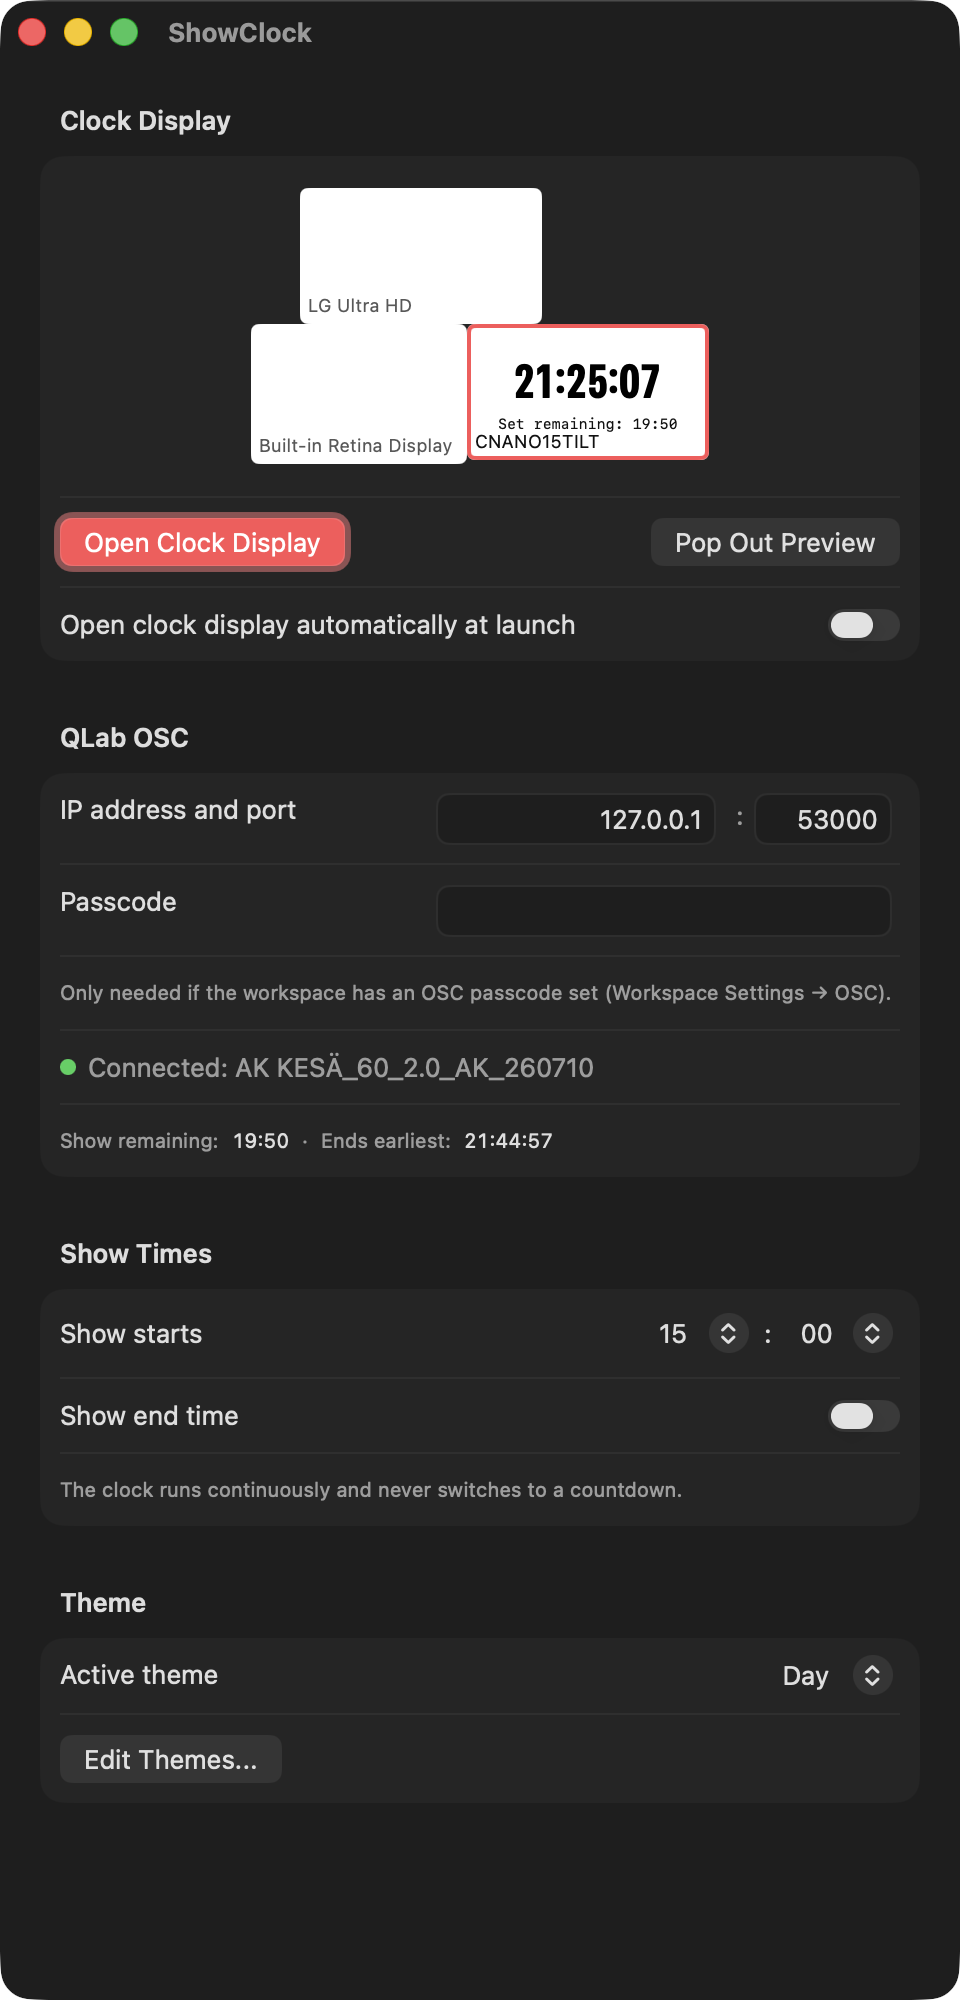
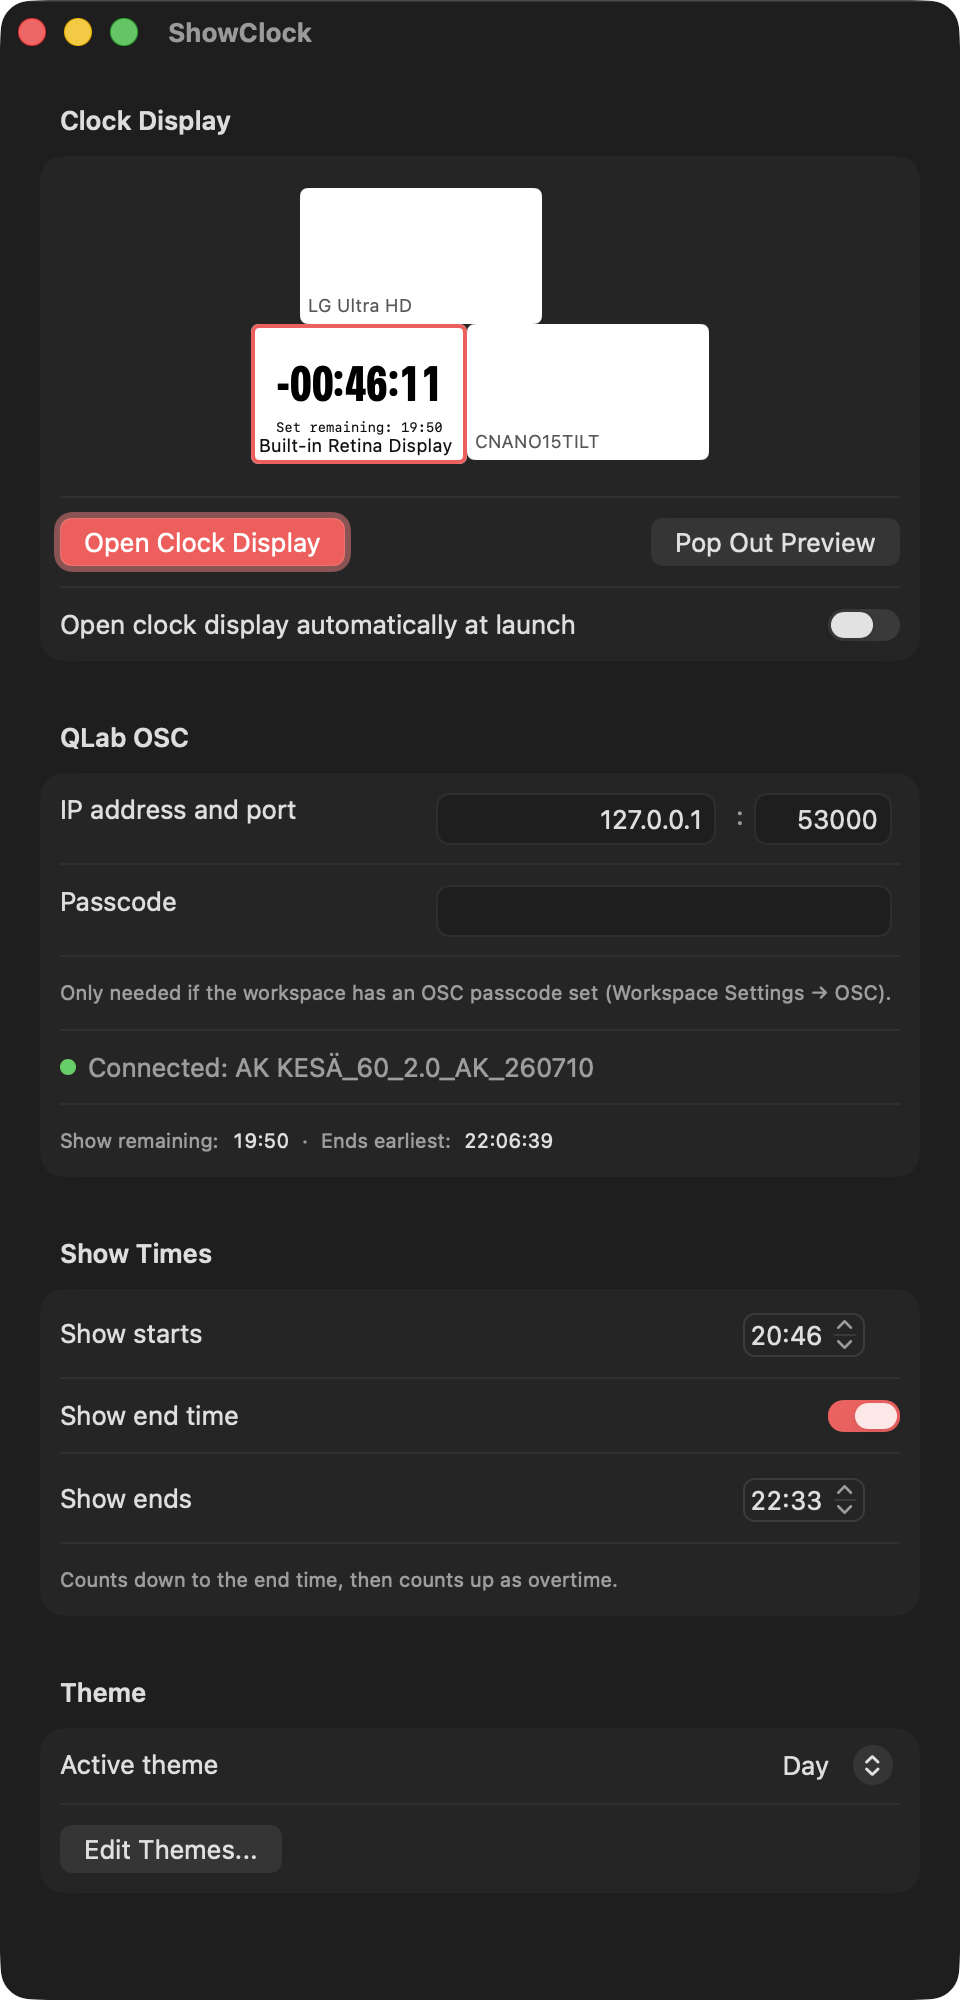
Type show times instead of picking them, and support a 12-hour clock
The show times were two .menu Pickers — the minute one a 60-item dropdown,
so setting 19:45 meant hunting two long lists for something you set once
under pre-show pressure. They're now native date fields: digits type
straight in and auto-advance, arrows nudge by one, and 25:00 simply isn't
enterable, so there's no parsing or clamping code to own. In 12-hour mode
AM/PM is a third sub-field of the same control rather than a separate
dropdown.

Adds a 12/24-hour setting (Cmd+, → Clock Format, default 24-hour, which
is both the theatre convention and what every previous build showed). One
formatter in AppSettings renders every wall-clock time, so the kiosk
display, the pop-out and Settings can't disagree, and the time fields take
their locale from that same setting rather than the system's. The
countdown is deliberately excluded: it's a duration, and AM/PM is
meaningless on one.

ClockView sizes its clock from a fixed-width template rather than the
live string. 24-hour is always eight glyphs, but 12-hour swings between
"9:45:02 PM" and "10:45:02 PM", which would have visibly resized the whole
clock at 10:00 and again at 1:00.

Claude-Session: https://claude.ai/code/session_01Q7MbnAwNDDNtDy4pWbSyjC

diff --git a/Sources/ShowClock/MainView.swift b/Sources/ShowClock/MainView.swift
@@ -149,14 +149,14 @@ struct MainView: View {
                 HStack {
                     Text("Show starts")
                     Spacer()
-                    HourMinutePicker(hour: $settings.showtimeHour, minute: $settings.showtimeMinute)
+                    HourMinutePicker(hour: $settings.showtimeHour, minute: $settings.showtimeMinute, use12Hour: settings.use12HourClock)
                 }
                 Toggle("Show end time", isOn: $settings.showEndEnabled)
                 if settings.showEndEnabled {
                     HStack {
                         Text("Show ends")
                         Spacer()
-                        HourMinutePicker(hour: $settings.showEndHour, minute: $settings.showEndMinute)
+                        HourMinutePicker(hour: $settings.showEndHour, minute: $settings.showEndMinute, use12Hour: settings.use12HourClock)
                     }
                     if settings.showEndDate.timeIntervalSince(settings.showtimeDate) < 0 ||
                         (settings.showEndHour < settings.showtimeHour ||
@@ -310,7 +310,7 @@ private struct ShowRemainingView: View {
                     .foregroundStyle(.secondary)
                 Text("Ends earliest:")
                     .foregroundStyle(.secondary)
-                Text(Self.formatTime(projectedEnd))
+                Text(settings.clockString(projectedEnd))
                     .monospacedDigit()
                     .foregroundStyle(runsLong ? .red : .primary)
             }
@@ -318,13 +318,6 @@ private struct ShowRemainingView: View {
         }
     }
 
-    private static func formatTime(_ date: Date) -> String {
-        let c = Calendar.current
-        return String(format: "%02d:%02d:%02d",
-                      c.component(.hour, from: date),
-                      c.component(.minute, from: date),
-                      c.component(.second, from: date))
-    }
 
     private static func formatDuration(_ seconds: Double) -> String {
         let total = Int(seconds.rounded())
@@ -340,28 +333,38 @@ private struct ShowRemainingView: View {
 private struct HourMinutePicker: View {
     @Binding var hour: Int
     @Binding var minute: Int
+    let use12Hour: Bool
+
+    // Stored as two Ints (so the post-midnight logic in AppSettings keeps
+    // working on plain numbers), surfaced as a Date purely for the control.
+    private var time: Binding<Date> {
+        Binding(
+            get: {
+                var c = DateComponents()
+                c.year = 2000; c.month = 1; c.day = 1
+                c.hour = hour; c.minute = minute
+                return Calendar.current.date(from: c) ?? Date()
+            },
+            set: { newValue in
+                let c = Calendar.current.dateComponents([.hour, .minute], from: newValue)
+                hour = c.hour ?? 0
+                minute = c.minute ?? 0
+            }
+        )
+    }
 
     var body: some View {
-        HStack(spacing: 4) {
-            Picker("", selection: $hour) {
-                ForEach(0..<24) { h in
-                    Text(String(format: "%02d", h)).tag(h)
-                }
-            }
-            .pickerStyle(.menu)
-            .frame(width: 60)
+        // A native date field, not two menus: the minute menu was a 60-item
+        // dropdown, so setting 19:45 meant hunting two long lists. This types
+        // straight in (digits auto-advance hour -> minute -> AM/PM), arrows
+        // nudge by one, and it simply won't accept 25:00 — no parsing or
+        // clamping code to own. Locale is pinned to the app's own 12/24-hour
+        // setting rather than the system's, so these fields always read the
+        // way the stage display does.
+        DatePicker("", selection: time, displayedComponents: .hourAndMinute)
+            .datePickerStyle(.stepperField)
             .labelsHidden()
-
-            Text(":")
-
-            Picker("", selection: $minute) {
-                ForEach(0..<60) { m in
-                    Text(String(format: "%02d", m)).tag(m)
-                }
-            }
-            .pickerStyle(.menu)
-            .frame(width: 60)
-            .labelsHidden()
-        }
+            .environment(\.locale, Locale(identifier: use12Hour ? "en_US" : "en_GB"))
+            .frame(width: use12Hour ? 120 : 96)
     }
 }

diff --git a/Sources/ShowClock/AppSettings.swift b/Sources/ShowClock/AppSettings.swift
@@ -21,6 +21,10 @@ class AppSettings: ObservableObject {
     // clock switches to treating tonight's occurrence as upcoming. Rarely
     // needs changing, so it lives in the Cmd+, Settings scene.
     @Published var overnightCutoffHour: Int = 5 { didSet { saveIfLoaded() } }
+    // 24-hour by default: it's the theatre/broadcast convention, and it's what
+    // every build before this one showed, so an existing install doesn't
+    // silently change format under the operator.
+    @Published var use12HourClock: Bool = false { didSet { saveIfLoaded() } }
     // How long to keep showing the overtime countdown after QLab's own
     // rest-of-show estimate reaches zero, before cutting to the plain clock.
     // An instant cut read as jarring/alarming to operators — this gives them
@@ -132,6 +136,28 @@ class AppSettings: ObservableObject {
     }
 
     // Returns the showtime HH:MM on whichever day is actually in progress.
+    // One place decides how a wall-clock time reads, so the kiosk display,
+    // the mini window and Settings can't disagree. The countdown is
+    // deliberately NOT routed through here — "-00:45:12" is a duration, and
+    // AM/PM is meaningless on a duration.
+    func clockString(_ date: Date, includeSeconds: Bool = true) -> String {
+        let c = Calendar.current
+        var h = c.component(.hour, from: date)
+        let m = c.component(.minute, from: date)
+        let s = c.component(.second, from: date)
+        guard use12HourClock else {
+            return includeSeconds
+                ? String(format: "%02d:%02d:%02d", h, m, s)
+                : String(format: "%02d:%02d", h, m)
+        }
+        let suffix = h < 12 ? "AM" : "PM"
+        h = h % 12
+        if h == 0 { h = 12 }
+        return includeSeconds
+            ? String(format: "%d:%02d:%02d %@", h, m, s, suffix)
+            : String(format: "%d:%02d %@", h, m, suffix)
+    }
+
     var showtimeDate: Date { activeWindow.start }
 
     // Returns the show end date, on the day after showtime if the show crosses midnight.
@@ -154,6 +180,7 @@ class AppSettings: ObservableObject {
         d.set(showEndHour, forKey: "showEndHour")
         d.set(showEndMinute, forKey: "showEndMinute")
         d.set(overnightCutoffHour, forKey: "overnightCutoffHour")
+        d.set(use12HourClock, forKey: "use12HourClock")
         d.set(overtimeHoldSeconds, forKey: "overtimeHoldSeconds")
         d.set(selectedThemeID.uuidString, forKey: "selectedThemeID")
         d.set(Int(selectedDisplayID), forKey: "selectedDisplayID")
@@ -186,6 +213,9 @@ class AppSettings: ObservableObject {
         }
         if d.object(forKey: "showQRCode") != nil {
             showQRCode = d.bool(forKey: "showQRCode")
+        }
+        if d.object(forKey: "use12HourClock") != nil {
+            use12HourClock = d.bool(forKey: "use12HourClock")
         }
         if d.object(forKey: "autoCheckForUpdates") != nil {
             autoCheckForUpdates = d.bool(forKey: "autoCheckForUpdates")

diff --git a/Sources/ShowClock/ClockView.swift b/Sources/ShowClock/ClockView.swift
@@ -6,18 +6,10 @@ struct ClockView: View {
     let now: Date
     let isPreShow: Bool
 
-    private var timeString: String {
-        let c = Calendar.current
-        return String(format: "%02d:%02d:%02d",
-                      c.component(.hour, from: now),
-                      c.component(.minute, from: now),
-                      c.component(.second, from: now))
-    }
+    private var timeString: String { settings.clockString(now) }
 
     private var showtimeString: String {
-        let f = DateFormatter()
-        f.dateFormat = "HH:mm"
-        return f.string(from: settings.showtimeDate)
+        settings.clockString(settings.showtimeDate, includeSeconds: false)
     }
 
     var body: some View {
@@ -26,8 +18,15 @@ struct ClockView: View {
             // size comes from width and why fixedSize() has to accompany the
             // negative padding. One glyph shorter here (no leading sign), so
             // the clock lands slightly larger than the countdown does.
+            // Sized from a fixed-width template, not the live string. In
+            // 24-hour mode they're the same thing, but 12-hour swings between
+            // "9:45:02 PM" and "10:45:02 PM" — sizing off the current value
+            // would visibly resize the whole clock at 10:00 and again at 1:00.
+            // The template is the widest form, so shorter ones simply sit with
+            // a little more margin.
+            let sizingTemplate = settings.use12HourClock ? "00:00:00 PM" : "00:00:00"
             let widthLimited = (geo.size.width * CountdownView.usableWidth)
-                / CountdownView.advanceRatio(for: timeString)
+                / CountdownView.advanceRatio(for: sizingTemplate)
             let heightLimited = (geo.size.height * CountdownView.maxCapFraction)
                 / CountdownView.capHeightRatio
             let mainFontSize = min(widthLimited, heightLimited)

diff --git a/Sources/ShowClock/AdvancedSettingsView.swift b/Sources/ShowClock/AdvancedSettingsView.swift
@@ -45,6 +45,18 @@ struct AdvancedSettingsView: View {
                     .foregroundStyle(.secondary)
             }
 
+            Section("Clock Format") {
+                Picker("Time format", selection: $settings.use12HourClock) {
+                    Text("24-hour (18:30)").tag(false)
+                    Text("12-hour (6:30 PM)").tag(true)
+                }
+                .pickerStyle(.inline)
+                .labelsHidden()
+                Text("Applies to the clock display, the pop-out and the show times below. The countdown itself is a duration, so it always reads -H:MM:SS.")
+                    .font(.caption)
+                    .foregroundStyle(.secondary)
+            }
+
             Section("Overnight Shows") {
                 HStack {
                     Text("Day cutoff")

diff --git a/Sources/ShowClock/MiniClockView.swift b/Sources/ShowClock/MiniClockView.swift
@@ -24,15 +24,7 @@ struct MiniClockContent: View {
     private var isOvertime: Bool { diff < 0 }
 
     private var mainText: String {
-        showPlainClock ? Self.formatClock(now) : CountdownView.formatCountdown(diff)
-    }
-
-    private static func formatClock(_ date: Date) -> String {
-        let c = Calendar.current
-        return String(format: "%02d:%02d:%02d",
-                      c.component(.hour, from: date),
-                      c.component(.minute, from: date),
-                      c.component(.second, from: date))
+        showPlainClock ? settings.clockString(now) : CountdownView.formatCountdown(diff)
     }
 
     // Matches ShowRemainingView's formatting in MainView, so the number

diff --git a/Sources/ShowClock/CountdownView.swift b/Sources/ShowClock/CountdownView.swift
@@ -22,13 +22,7 @@ struct CountdownView: View {
         return diff < 0 ? "+\(digits)" : "-\(digits)"
     }
 
-    private var currentTimeString: String {
-        let c = Calendar.current
-        return String(format: "%02d:%02d:%02d",
-                      c.component(.hour, from: now),
-                      c.component(.minute, from: now),
-                      c.component(.second, from: now))
-    }
+    private var currentTimeString: String { settings.clockString(now) }
 
     // Real metrics for the face below (system bold, compressed, monospaced
     // digits), read off NSFont rather than estimated from a screenshot — a
